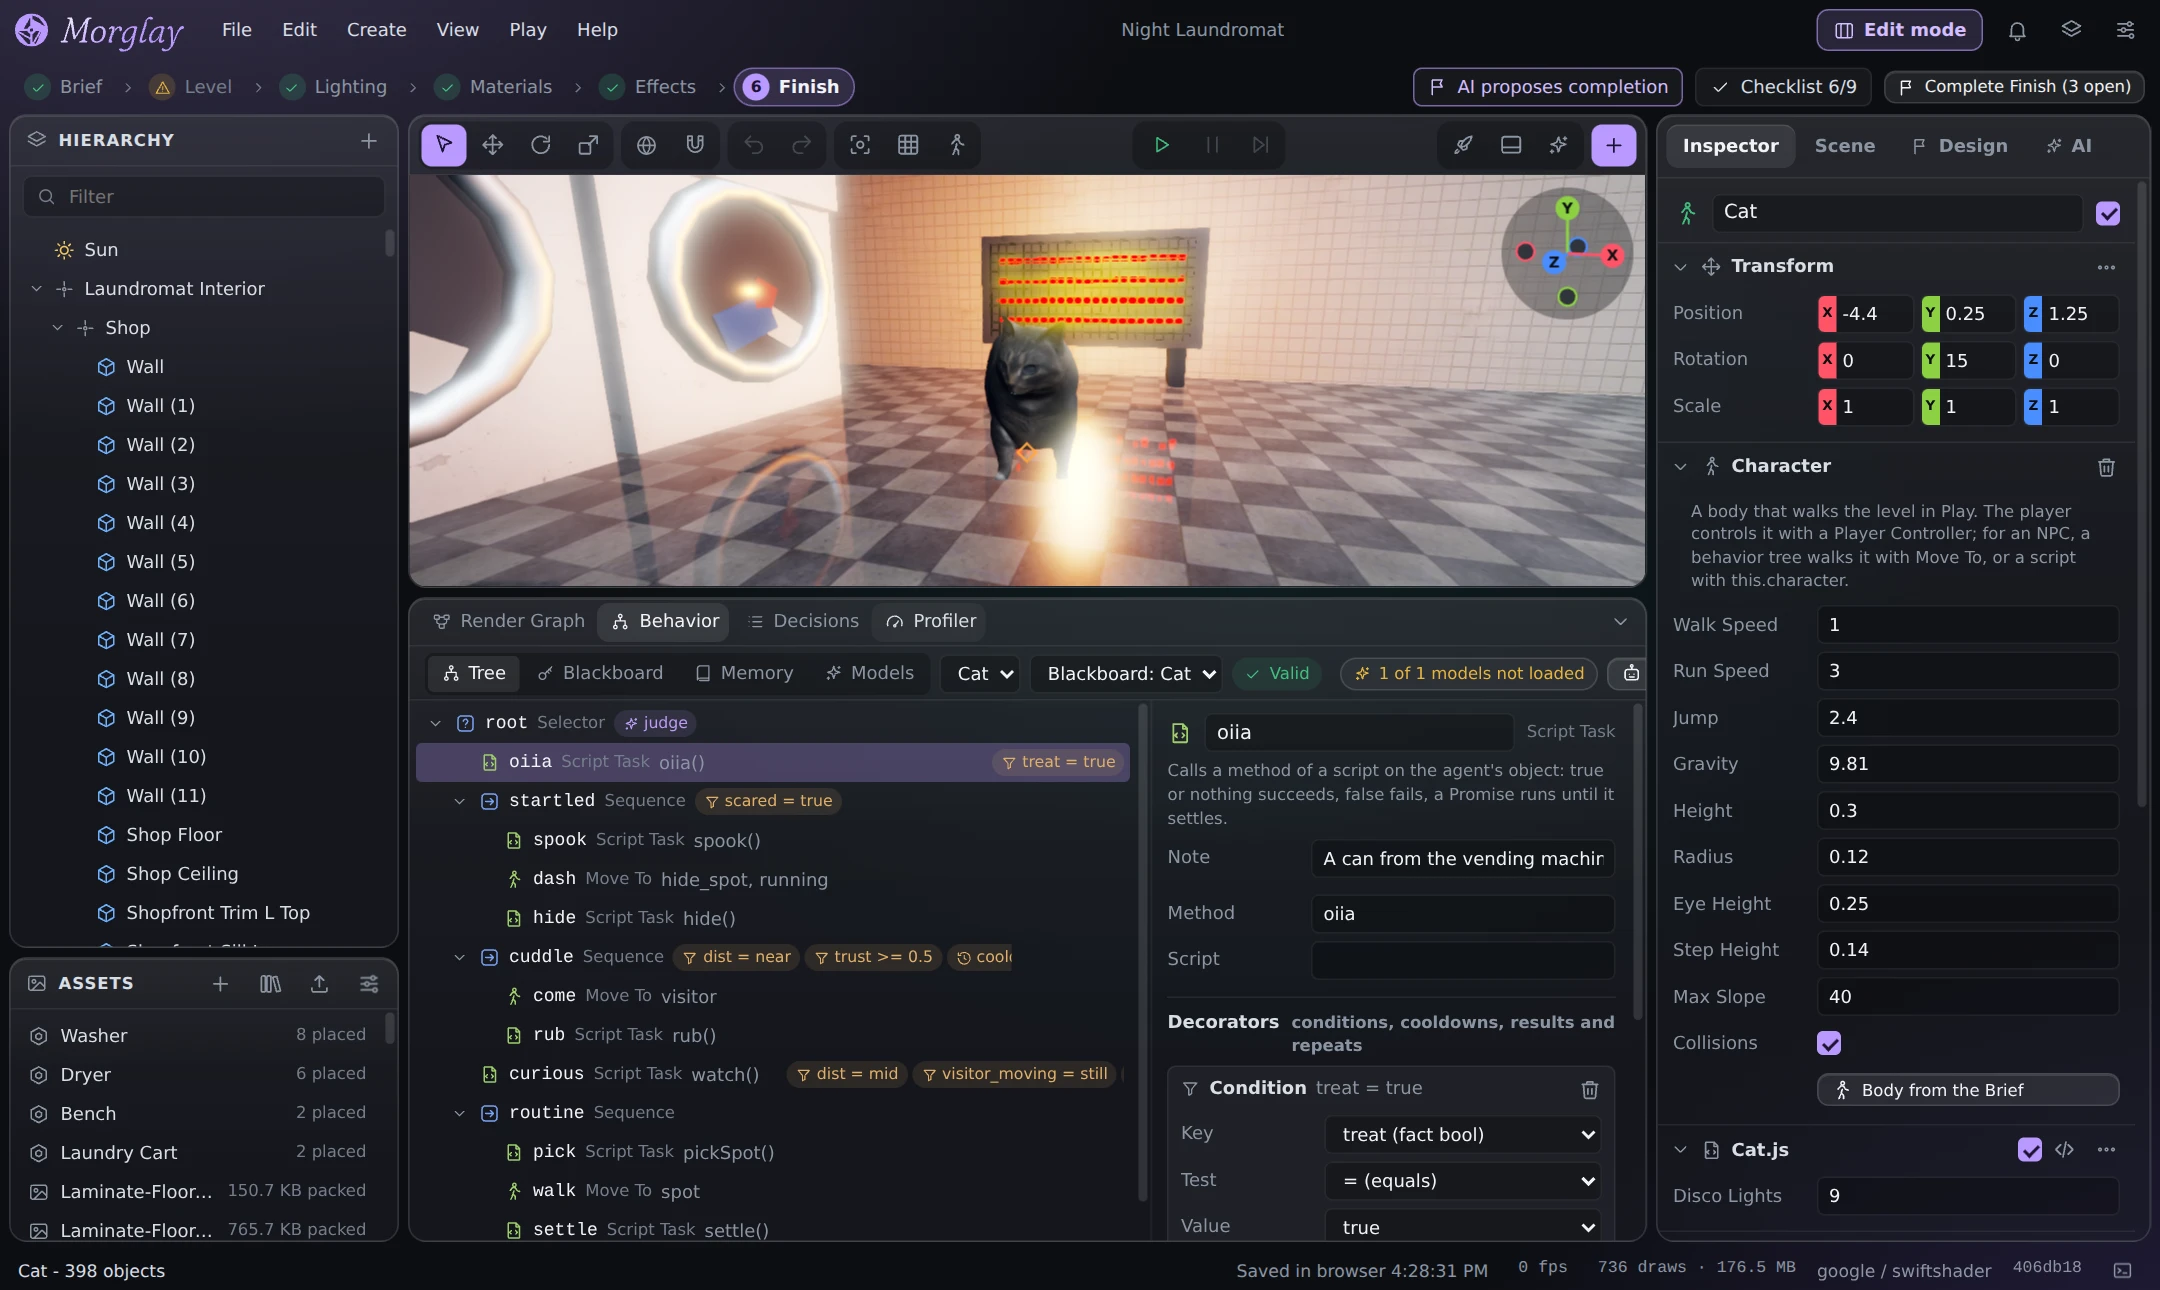
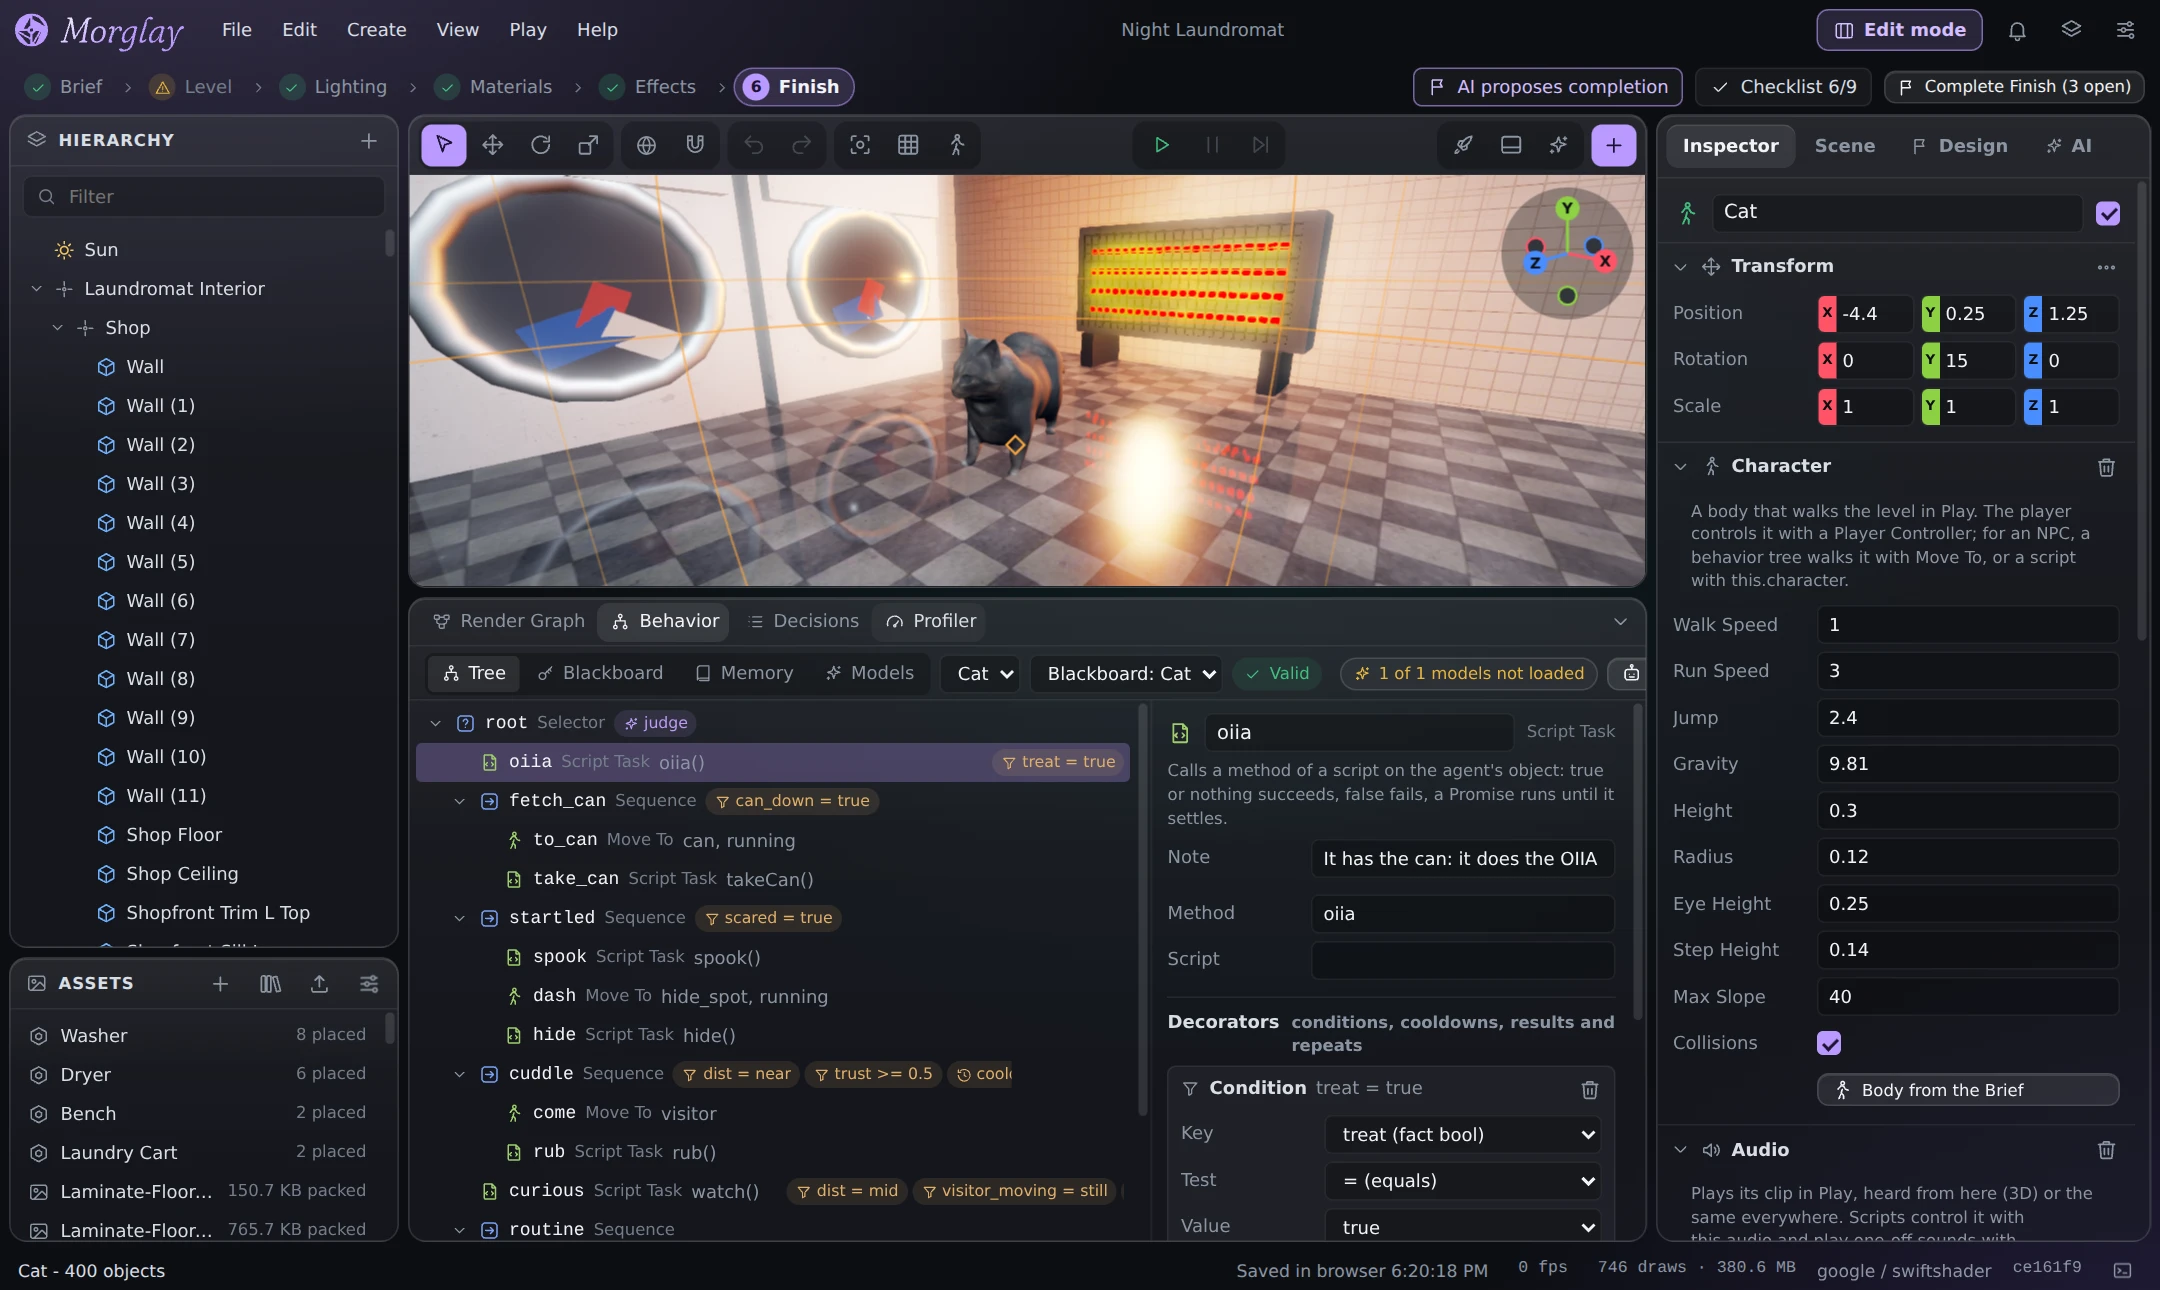
docs: README picture of the cat's tree with its can branch
The picture showed the tree before the cat ran for a can on the floor:
it now has fetch_can (run to the can, take it) under the OIIA spin, and
the cat's Audio component in the Inspector.

Claude-Session: https://claude.ai/code/session_01PgWoE3H58K9xxdV7BNUytW

diff --git a/README.md b/README.md
@@ -75,7 +75,7 @@ The pieces that make this possible are already in the editor:
 To see one, open **File > Open Example: Night Laundromat** and press **Play**. Its cat runs on a behavior tree: it naps by the heater, watches the washers turn, comes over to rub against a visitor it trusts and dashes under the bench when someone runs past. Press the vending machine's button for a can, pick it up and put it down on the floor, and the cat runs for it and does the OIIA spin, turning only while its oiia sound plays. On the **Island**, a shiba follows you around, runs off to explore and keeps popping up behind you. Ask the assistant for characters of your own, or give one a tree yourself in the **Behavior** tab of edit mode; **Help > Behavior Tree Reference** lists every node.
 
 <p align="center">
-  <img src=".github/assets/behavior.webp" alt="The laundromat cat's behavior tree in edit mode: the OIIA spin when given a can, hide when someone runs close by, come over to a visitor it trusts, watch one who stands still, otherwise nap, watch the washers or look out at the rain. Its Ask service asks the model whether the cat trusts the visitor." width="100%">
+  <img src=".github/assets/behavior.webp" alt="The laundromat cat's behavior tree in edit mode: the OIIA spin once it has a can, run for a can put down on the floor, hide when someone runs close by, come over to a visitor it trusts, watch one who stands still, otherwise nap, watch the washers or look out at the rain. Its Ask service asks the model whether the cat trusts the visitor." width="100%">
 </p>
 
 The goal is a new kind of game: worlds whose people notice you, remember you and respond to you, built by one person with an AI assistant, and still directed by that person's hand.
